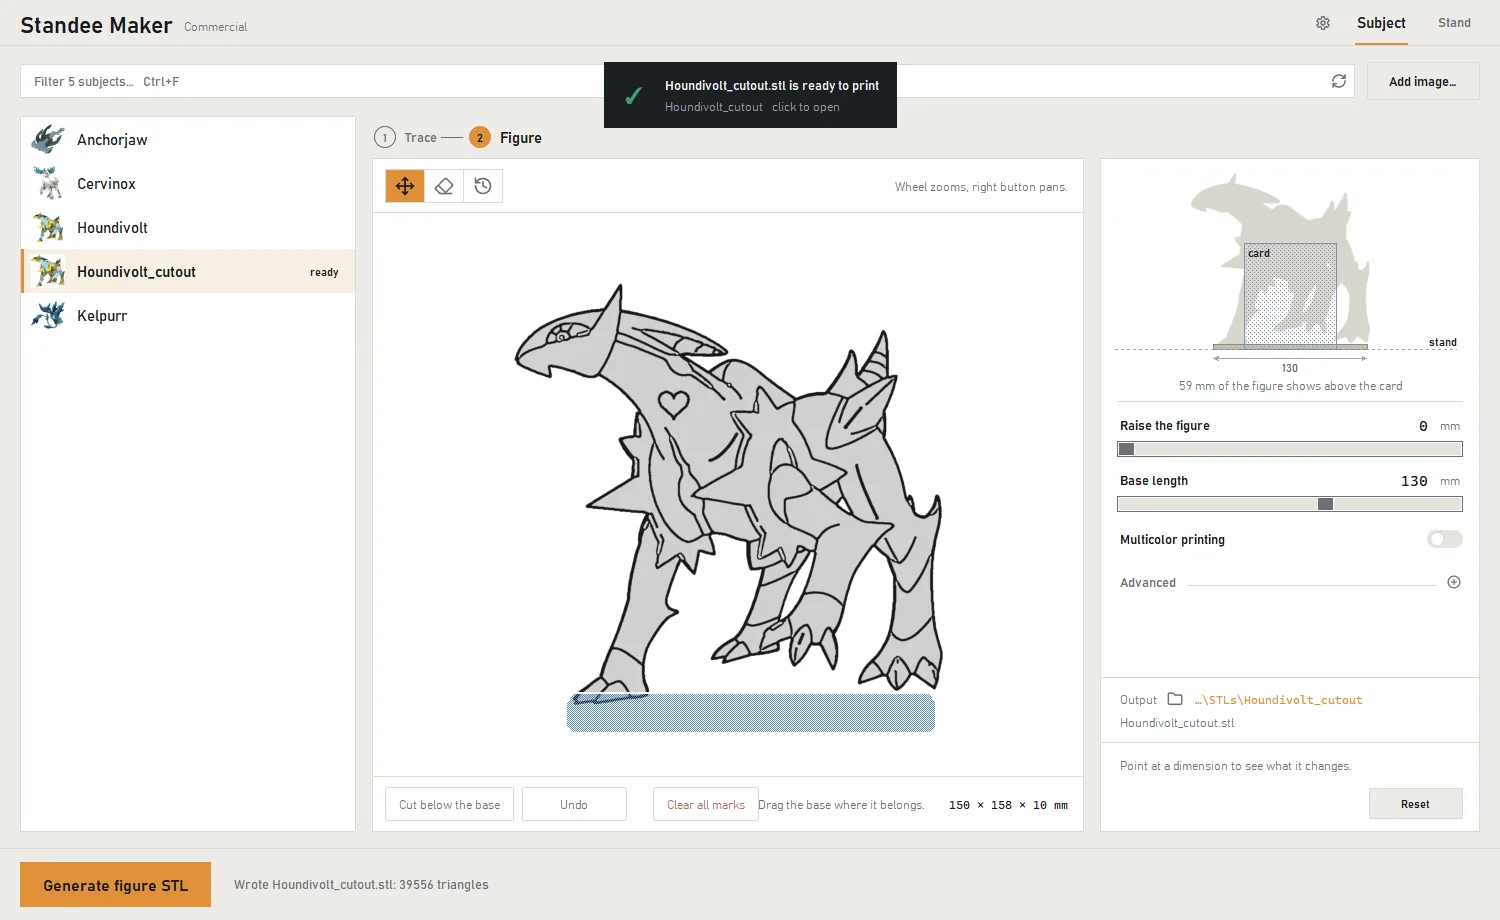
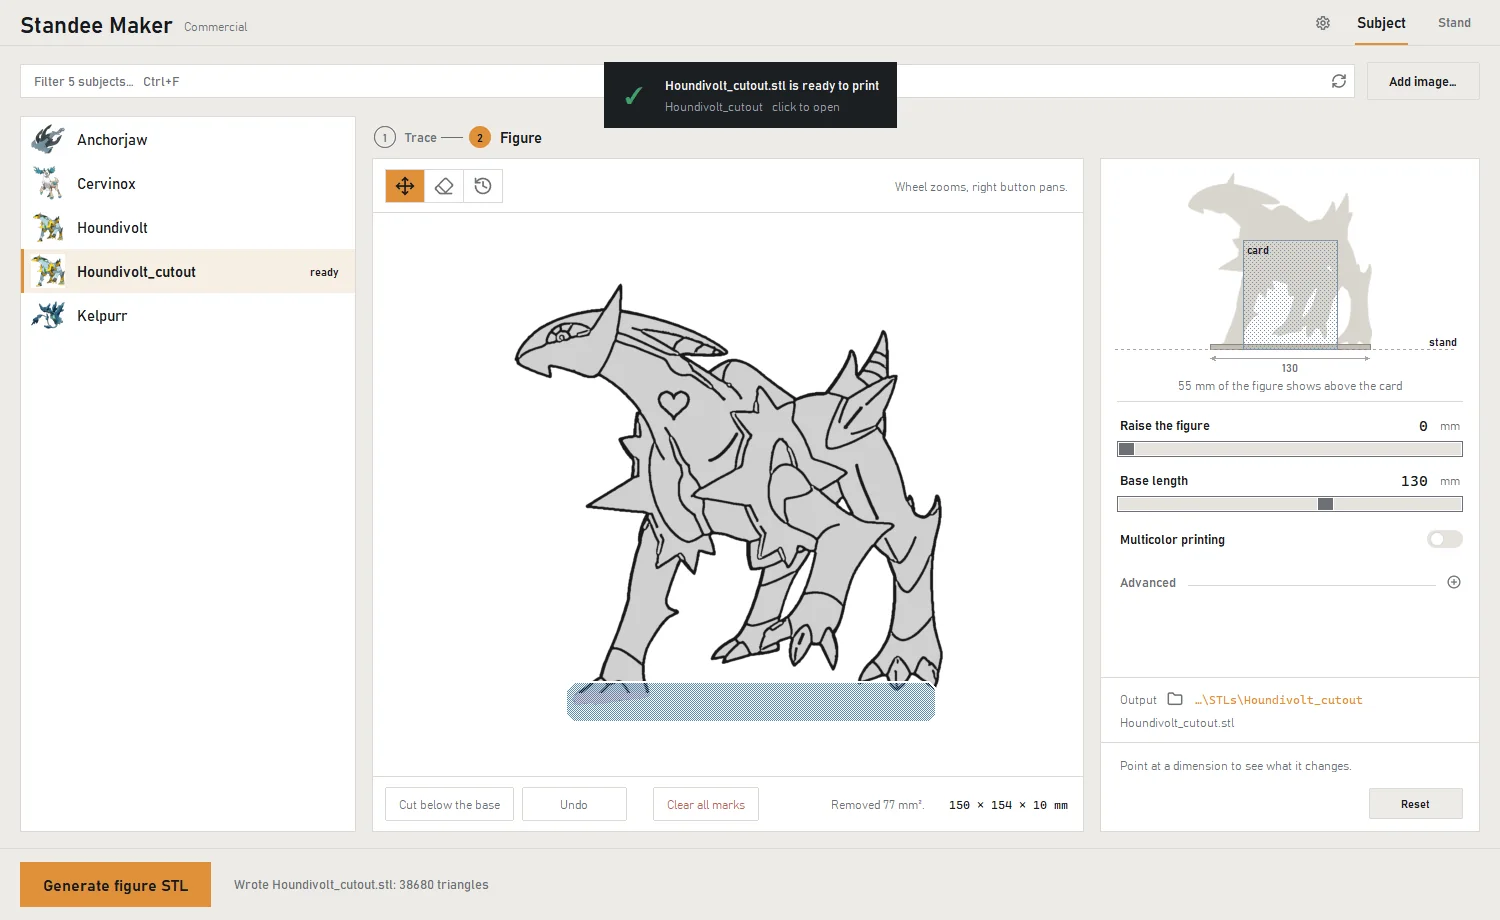
Sito da PNG-Stand-Maker @ 1a067ba

diff --git a/main.js b/main.js
@@ -136,7 +136,7 @@
   // deve leggerla lo stesso. Le due devono restare uguali.
   var NOTES = [
     "The image on the left, what comes out of it on the right, at the same height.",
-    "You work face-on, in 2D, and that is not a simplification: the part is an extrusion, so seen from the front it hides nothing. The little drawing at the top right answers what the numbers leave out, <b>how much of the figure stands above the card</b>: 61 mm here.",
+    "You work face-on, in 2D, and that is not a simplification: the part is an extrusion, so seen from the front it hides nothing. The little drawing at the top right answers what the numbers leave out, <b>how much of the figure stands above the card</b>: 57 mm here. The base sits on the figure&rsquo;s centre of gravity, a little higher and a little longer than it starts, so that it takes in both hooves on the ground.",
     "Two measurements: how wide the toploader slot is, and which figure this stand is for. A switch drops the toploader slot, for a figure that stands on its own. The dropdown <b>starts empty</b> on purpose: a stand is printed for one figure, and a choice the app makes on your behalf is a choice nobody re-reads."
   ];
   var unote = $("unote");
@@ -396,21 +396,32 @@
             "an extrusion: from the front it hides nothing.",
       notes: [
         [[469, 125, 80, 26], "Step 2, <b>Figure</b>. <b>Ctrl+Tab</b> gets here from the keyboard."],
-        [[565, 690, 372, 45], "The base, hatched in blue. It starts centred under the silhouette, " +
-          "just inside its lowest point."],
+        [[565, 679, 372, 45], "The base, hatched in blue. It starts centred on the silhouette, " +
+          "just inside its lowest point: here the front foot, while the hind foot on the right " +
+          "barely touches it. Nudged up by 4 mm, it takes in both."],
+        [[386, 169, 39, 33], "<b>Move base</b> (M): drag the base where it belongs."],
         [[1108, 412, 362, 105], "<b>Base length</b> should span the two outermost feet. Houndivolt " +
-          "stands wide, and at the 85 mm it starts from the hind feet would stick out past the " +
-          "ends: 130 mm reaches them all. <b>Raise the figure</b> stays at zero, because a tall " +
-          "subject already clears the card."],
+          "stands wide, and at the 85 mm it starts from the feet would stick out past the ends: " +
+          "130 mm reaches them all. <b>Raise the figure</b> stays at zero, because a tall subject " +
+          "already clears the card."],
         [[1108, 165, 362, 230], "The drawing to scale answers what the numbers leave out: <b>how " +
-          "much of the figure stands above the card</b> in its toploader. 59 mm here."],
-        [[386, 169, 39, 33], "<b>Move base</b> (M), if you want it somewhere else: drag it where " +
-          "it belongs."],
-        [[385, 787, 129, 34], "<b>Cut below the base</b> removes whatever hangs underneath, which " +
-          "would print as loose bits under the stand."],
+          "much of the figure stands above the card</b> in its toploader. 55 mm here."],
         [[1108, 566, 362, 26], "<b>Advanced</b>: how thick the silhouette and the line art come " +
           "out, and <b>Base height</b>, 10 mm inside the slot plus what stays in sight. Set once, " +
           "then left alone."]
+      ],
+      tip: "Everything above the base stays as it is: the base goes up, the figure does not move." },
+
+    { ch: 3, img: "figure-cut", size: SHOT,
+      title: "Cut below the base",
+      lede: "With the base higher, the front foot now pokes out underneath: it would print as a " +
+            "loose bit sticking out under the stand. One button takes it away.",
+      notes: [
+        [[385, 787, 129, 34], "<b>Cut below the base</b> removes everything underneath, except a " +
+          "4 mm overlap: that is what welds figure and base into one solid instead of two pieces " +
+          "that only touch."],
+        [[565, 679, 372, 45], "Nothing hangs below the base any more."],
+        [[862, 795, 100, 20], "How much was removed: 77 mm&sup2;. The base itself stays whole."]
       ],
       tip: "For anything that is not a straight cut, a shadow or a stray mark, use <b>Erase</b> " +
            "(E) and <b>Restore</b> (R) on this same view." },
@@ -429,7 +440,7 @@
           "files come out as well, with the line art as a second part. Open <b>_Bambu-Orca</b> in " +
           "Bambu Studio or OrcaSlicer, <b>_Prusa</b> in PrusaSlicer. With a single nozzle, Output " +
           "then shows the height at which to change filament."],
-        [[944, 795, 126, 20], "The size of the part: 150 &times; 158 &times; 10 mm, base included."],
+        [[944, 795, 126, 20], "The size of the part: 150 &times; 154 &times; 10 mm, base included."],
         [[300, 261, 48, 22], "In the library the tag moves on from <b>traced</b> to " +
           "<b>ready</b>: the figure is ready to print."]
       ] },
@@ -501,7 +512,7 @@
   // Come TURN_V: i riquadri di TOUR sono in pixel delle schermate, e una
   // schermata vecchia ancora nella cache sotto i riquadri nuovi li mette nel
   // posto sbagliato. Si alza a ogni `make_tutorial.py`.
-  var TOUR_V = "?v=9";
+  var TOUR_V = "?v=10";
   function src(step) { return step.img ? "assets/tutorial/" + step.img + ".webp" + TOUR_V : null; }
 
   // la barra dei capitoli: un segmento per passo, e il capitolo si preme

diff --git a/index.html b/index.html
@@ -160,7 +160,7 @@
       </div>
       <div class="stack">
         <button class="plate tour-poster" type="button" data-tour="0">
-          <img src="assets/tutorial/traced.webp?v=9" loading="lazy" alt="The Trace page with Houndivolt: the picture on the left, the finished trace on the right">
+          <img src="assets/tutorial/traced.webp?v=10" loading="lazy" alt="The Trace page with Houndivolt: the picture on the left, the finished trace on the right">
           <span class="tour-play">
             <svg viewBox="0 0 16 16" aria-hidden="true"><path d="M4.5 2.5v11l9-5.5z" fill="currentColor"/></svg>
             Watch the tutorial
